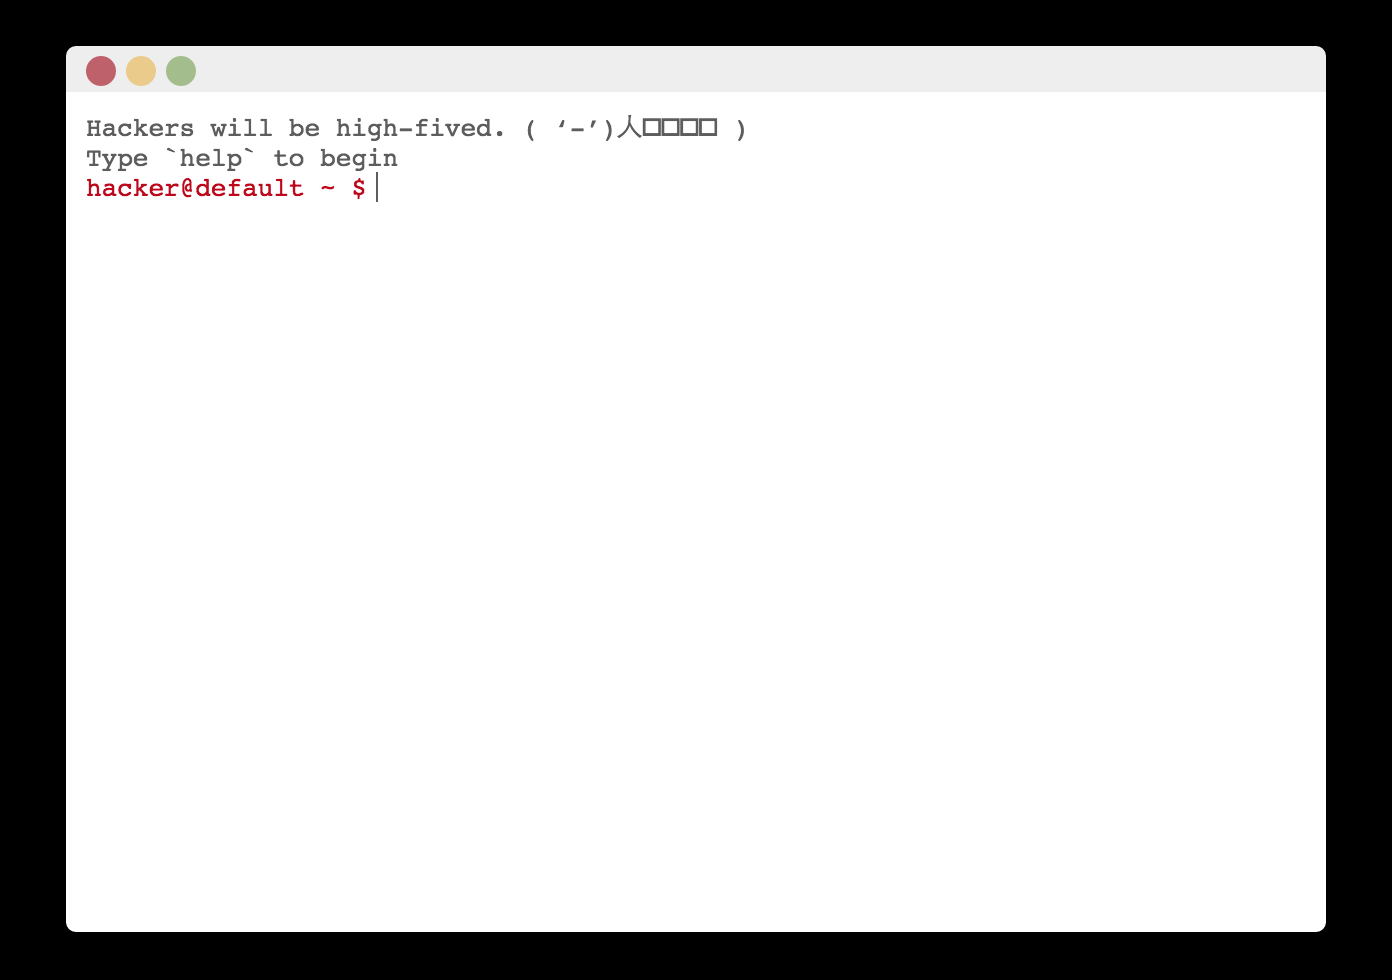
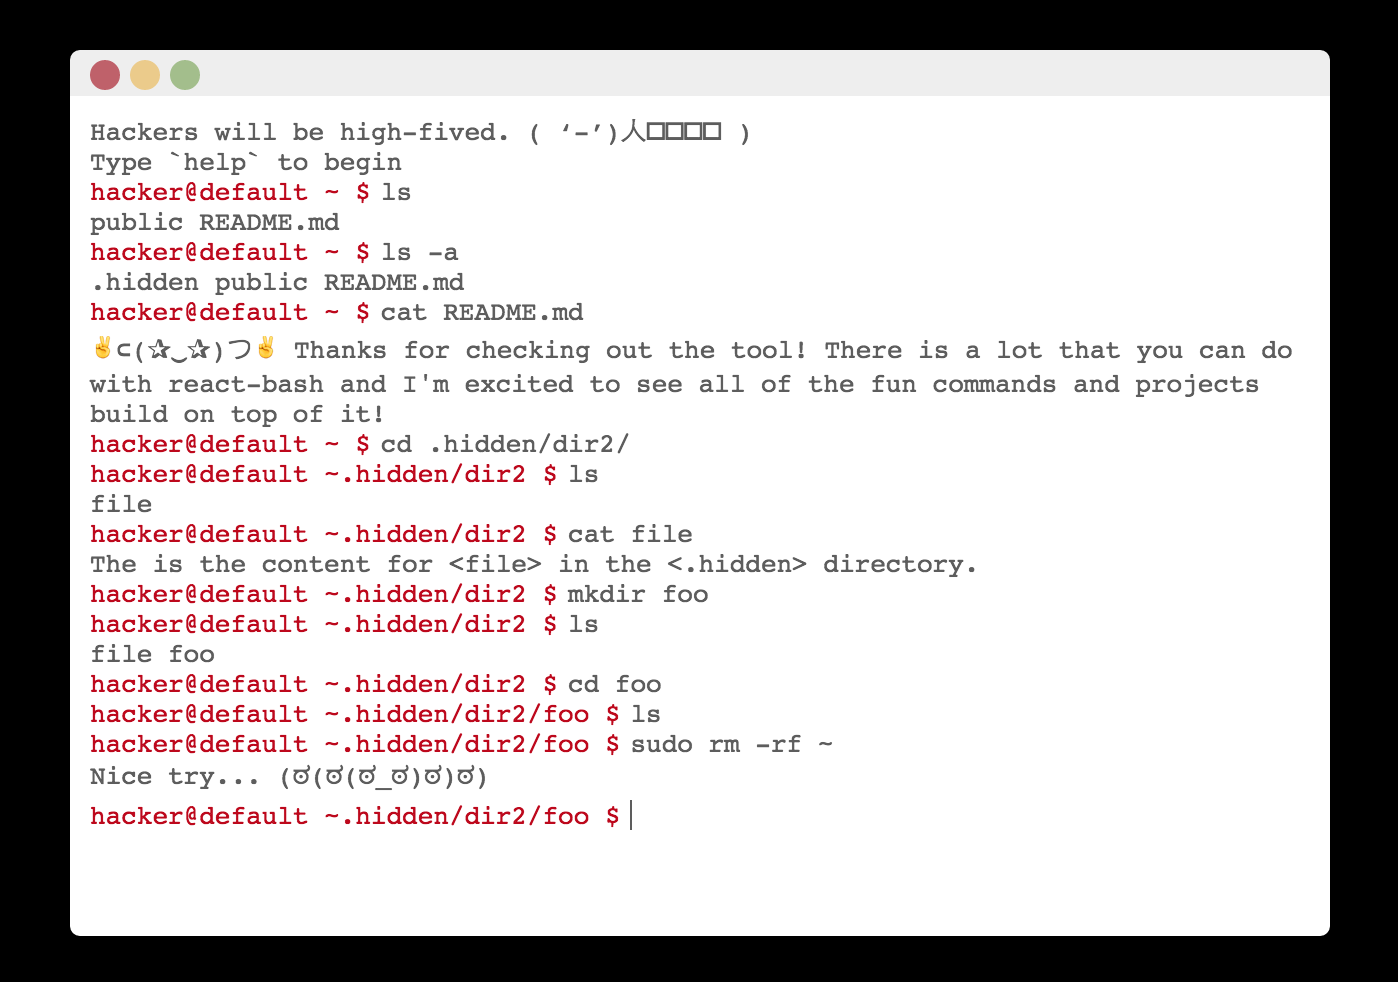
Update README.md, demo, and screenshot

Changed region(s): [[0.0618, 0.1224, 0.9267, 0.8571], [0.0309, 0.0306, 0.9576, 0.0918], [0.4016, 0.1224, 0.5251, 0.1531]]

diff --git a/demo/index.js b/demo/index.js
@@ -18,20 +18,20 @@ const history = [
 ];
 
 const structure = {
-    '.private': {
-        file1: { content: 'File1 in private' },
-        file2: { content: 'File2 in private' },
+    '.hidden': {
+        file1: { content: 'The is the content for file1 in the <.hidden> directory.' },
+        file2: { content: 'The is the content for file2 in the <.hidden> directory.' },
         dir2: {
-            file: { content: 'File in private/dir2' },
+            file: { content: 'The is the content for <file> in the <.hidden> directory.' },
         },
         '.secrets': { content: 'I\'m still afraid of the dark...' },
     },
     public: {
-        file1: { content: 'File2 in public' },
-        file2: { content: 'File2 in public' },
-        file3: { content: 'File2 in public' },
+        file1: { content: 'The is the content for file1 in the <public> directory.' },
+        file2: { content: 'The is the content for file2 in the <public> directory.' },
+        file3: { content: 'The is the content for file3 in the <public> directory.' },
     },
-    README: { content: 'This is a demo README. ✌⊂(✰‿✰)つ✌' },
+    'README.md': { content: '✌⊂(✰‿✰)つ✌ Thanks for checking out the tool! There is a lot that you can do with react-bash and I\'m excited to see all of the fun commands and projects build on top of it!' },
 };
 
 const Root = <ReactBash history={history} structure={structure} extensions={extensions} />;

diff --git a/src/component.js b/src/component.js
@@ -151,14 +151,3 @@ ReactBash.defaultProps = {
     structure: {},
     prefix: 'hacker@default',
 };
-
-/*
-    - make story
-    - disable React developer tools
-    - "echo $PATH"
-    - "exit"
-    - grep
-    - tail
-    - whoami
-    - text formatting
-*/

diff --git a/README.md b/README.md
@@ -1,8 +1,6 @@
-# ReactBash
+# \<ReactBash /\>
 
-ReactBash is a configurable/extendable bash terminal component.  
-
-It provides a simple interface for adding a terminal to your application. The terminal has a few built in base commands, and allows a simple means of extending the understandable commands. It boasts things like autocomplete on tab, previous command navigation, and a test suite you can trust. It is easy to install and get started.
+ReactBash is a configurable / extendable bash terminal component. It provides an easy way of adding a terminal to your application. The terminal has a few built in base commands, and allows a simple means of extending the understandable commands. It boasts things like autocomplete on tab, previous command navigation, and a test suite you can trust. It is easy to install and get started.
 
 ```
 npm install --save react-bash
@@ -21,23 +19,23 @@ prop         | description
 `prefix`     | The string used to prefix commands in history: defaults to `hacker@default`
 
 ### Extending the command list
-The `extension` prop is an easy way to extend the bash commands that can be parsed from the terminal input. In essence, each command is a state reducer returning a new terminal state. This provides a lot of flexibility. Each command has access to the `structure`, `history`, and `cwd`, and expects the object returned to be applied in `setState` of the React component. Note that each extension should keep the state immutable, otherwise the component will not update. Check out the code for the `clear` command as an example.
+The `extension` prop is an easy way to extend the bash commands that can be parsed from the terminal input. In essence, each command is a state reducer returning a new terminal state. This provides a lot of flexibility. Each command has access to the `structure`, `history`, and `cwd`, and expects the object returned to be applied in `setState` of the React component. Note that each extension should keep the state immutable, otherwise the component will not update. If we were to extend the commands with and existing command like 'clear, here's how we could do it.
 
 ```js
 export const clear = {
-    exec: ({ structure, history, cwd }) => {
+    exec: ({ structure, history, cwd }, args) => {
         return { structure, cwd, history: [] };
     },
 };
+const extensions = { clear };
+<ReactBash extensions={extensions} />
 ```
 
-Some commands can use optional or required arguments. ReactBash uses the [yargs](https://www.npmjs.com/package/yargs) approach provides an `args` object to each command. There are three types of arguments: `anonymous` args, `boolean` args (--), and `named` args (-). As an example of how ReactBash parses the commands, check out this fictional example that utilizes all three in order.
+Each command is given the `state` and a parsed `args` object. Some commands can use optional or required arguments. ReactBash uses the [yargs](https://www.npmjs.com/package/yargs) approach. There are three types of arguments: `anonymous` args, `boolean` args (--), and `named` args (-). You can also alias commands for shorthands or multiple ways of writing the same argument (see the ls command for an example). To see how ReactBash parses the input, check out this fictional example that utilizes all three in order.
 
+For the input `foo some/path --bar -hello world`, ReactBash would parse the input as:
 ```js
-const input = 'foo some/path --bar -hello world';
-const { command, args } = bash.parseInput(input);
-
-command === 'foo'
+command = 'foo'
 args = {
     0: 'some/path',
     bar: true,
@@ -46,7 +44,7 @@ args = {
 ```
 
 ### History
-The history prop and state arrays are lists of items that will be displayed as history items in the terminal. If you'd like to add a welcome message to the initial state of the terminal, it's as easy as passing in a prop.
+The history prop and state arrays are lists of items that will be displayed as history items in the terminal. Essentially, anything that gets 'printed' out onto the terminal is a `history` item. The `prefix` prop is available to alter the bash user info that prepends commands in the history. If you'd like to add a welcome message to the initial state of the terminal, it's as easy as passing in a prop.
 
 ```js
 const history = [{ value: 'Welcome to the terminal!' }];
@@ -58,15 +56,19 @@ The structure object is a representation of the "file system" found within the t
 
 ```js
 const structure = {
-    rootDir: {
-        file1: { content: 'File1 in rootDir' },
-        file2: { content: 'File2 in rootDir' },
+    src: {
+        file1: { content: 'This is the text content for <file1> of <src>' },
+        file2: { content: 'This is the text content for <file2> of <src>' },
         childDir1: {
-            file: { content: 'File in rootDir/childDir1' },
+            file: { content: 'This is the text content for <file> of <src/childDir1>' },
         },
-        childDir2: {}
+        childDir2: {
+        }
     },
-    rootFile: { content: 'Contents for the root file' },
+    '.hiddenDir': {
+    },
+    '.hiddenFile': { content: 'This is a hidden file' },
+    file: { content: 'This is the text content for <file> of the root directory' },
 };
 
 ```
@@ -81,6 +83,13 @@ script         | description
 ### Patrons
 Be the first to contribute!
 ✌⊂(✰‿✰)つ✌
+
+**Some ideas for contributions:**
+* Add `echo` command with environment variables?
+* Add `grep` command that walks/searches the `structure`
+* Add `whoami` command
+* Add handles for the three circles at the top left of the terminal
+* Add multiline support / text formatting for `cat`
 
 ## License
 [MIT](http://isekivacenz.mit-license.org/)
